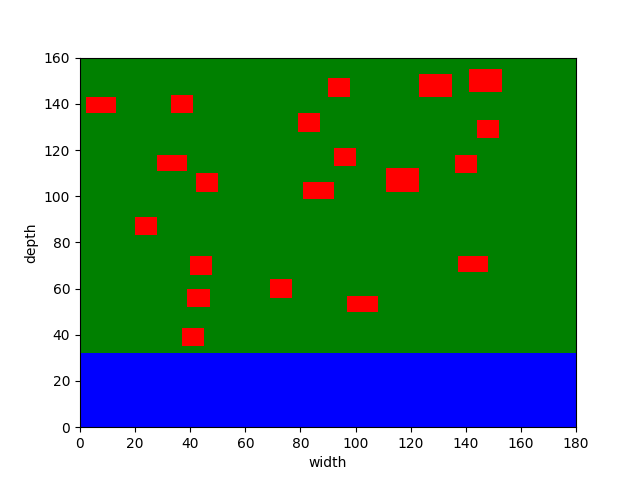
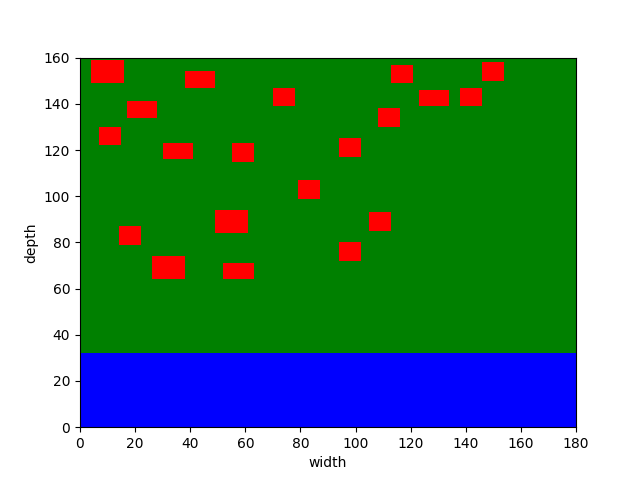
fixed free space problem

diff --git a/code/classes/graph.py b/code/classes/graph.py
@@ -1,8 +1,9 @@
 import csv
+import math
 import numpy as np
 import matplotlib.pyplot as plt
 import matplotlib.patches as patches
-from shapely.geometry import box, Point
+from shapely.geometry import box
 
 from code.classes.singlehouse import Singlehouse
 from code.classes.bungalow import Bungalow
@@ -78,17 +79,17 @@ class Graph():
         all_houses = []
 
         # Make the house objects and add to list
-        for singlehouse in range(int(total_singlehouses)):
-            singlehouse = Singlehouse()
-            all_houses.append(singlehouse)
+        for maison in range(int(total_maisons)):
+            maison = Maison()
+            all_houses.append(maison)
 
         for bungalow in range(int(total_bungalows)):
             bungalow = Bungalow()
             all_houses.append(bungalow)
 
-        for maison in range(int(total_maisons)):
-            maison = Maison()
-            all_houses.append(maison)
+        for singlehouse in range(int(total_singlehouses)):
+            singlehouse = Singlehouse()
+            all_houses.append(singlehouse)
 
         return all_houses
 
@@ -145,7 +146,6 @@ class Graph():
             The output list returns a house and its freespace
         """
         output = []
-
         # save all the corners of the house
         house_pointlist = [house.corner_lowerleft, house.return_upperleft(house), house.return_upperright(house), house.return_lowerright(house)]
 
@@ -155,18 +155,49 @@ class Graph():
                 neigh_pointlist = [neigh_house.corner_lowerleft, neigh_house.return_upperleft(neigh_house), neigh_house.return_upperright(neigh_house), neigh_house.return_lowerright(neigh_house)]
             
                 # compare the points of given house and its neighbours to find shortest distance
-                for housepoint in house_pointlist:
-                    for neighpoint in neigh_pointlist:
-                        distance = Point(housepoint[0],housepoint[1]).distance(Point(neighpoint[0],neighpoint[1]))
-                        if output == []:
-                            output.append(neigh_house)
-                            output.append(distance) 
-                        elif distance < output[1]:
-                            output = []
-                            output.append(neigh_house)
-                            output.append(distance)
-
+                distance = self.rect_distance(house_pointlist[0][0],house_pointlist[0][1], house_pointlist[2][0], house_pointlist[2][1], neigh_pointlist[0][0],neigh_pointlist[0][1], neigh_pointlist[2][0], neigh_pointlist[2][1])
+                if output == []:
+                    output.append(neigh_house)
+                    output.append(distance) 
+                elif distance < output[1]:
+                    output = []
+                    output.append(neigh_house)
+                    output.append(distance)
+                            
         return output
+
+
+    def distance_calculator(self, x1, y1, x2, y2):
+        """
+            Calculates the distance between points.
+        """
+        dist = math.sqrt((x2 - x1)**2 + (y2 - y1)**2)
+        return dist
+
+
+    def rect_distance(self,x1, y1, x1b, y1b, x2, y2, x2b, y2b):
+        left = x2b < x1
+        right = x1b < x2
+        bottom = y2b < y1
+        top = y1b < y2
+        if top and left:
+            return self.distance_calculator(x1, y1b, x2b, y2)
+        elif left and bottom:
+            return self.distance_calculator(x1, y1,x2b, y2b)
+        elif bottom and right:
+            return self.distance_calculator(x1b, y1, x2, y2b)
+        elif right and top:
+            return self.distance_calculator(x1b, y1b, x2, y2)
+        elif left:
+            return x1 - x2b
+        elif right:
+            return x2 - x1b
+        elif bottom:
+            return y1 - y2b
+        elif top:
+            return y2 - y1b
+        else:             # rectangles intersect
+            return 0
 
 
     def invalid(self, house, houses):
@@ -174,16 +205,18 @@ class Graph():
             Checks if the freespace between houses is the same or larger than the minimum freespace required.
             Returns True if the freespace is invalid. 
         """
-        nearest_neighbour = self.closest_house(house, houses)
+        house_pointlist = [house.corner_lowerleft, house.return_upperleft(house), house.return_upperright(house), house.return_lowerright(house)]
 
-        # Return houses with an invalid freespace distance
-        if isinstance(house, Maison) and nearest_neighbour[1] < house.freespace:
-            return True
-        elif isinstance(house, Bungalow) and nearest_neighbour[1] < house.freespace:
-            return True
-        elif isinstance(house, Singlehouse) and  nearest_neighbour[1] < house.freespace:
-            return True
-    
+        for neigh_house in houses:
+            if neigh_house.id is not house.id:
+                # save all the corners of a neighbouring house
+                neigh_pointlist = [neigh_house.corner_lowerleft, neigh_house.return_upperleft(neigh_house), neigh_house.return_upperright(neigh_house), neigh_house.return_lowerright(neigh_house)]
+                # compare the points of given house and its neighbours to find shortest distance
+                distance = self.rect_distance(house_pointlist[0][0],house_pointlist[0][1], house_pointlist[2][0], house_pointlist[2][1], neigh_pointlist[0][0],neigh_pointlist[0][1], neigh_pointlist[2][0], neigh_pointlist[2][1])
+                if distance > house.freespace and distance > neigh_house.freespace:
+                    continue
+                else:
+                    return True
         return False
 
 
@@ -205,7 +238,7 @@ class Graph():
         for house in houses:
             freespace = self.closest_house(house, houses)[1]
             extra_freespace = freespace - house.freespace
-            price_increase = extra_freespace * house.percentage + 1
+            price_increase = ((extra_freespace * house.percentage)/100) + 1
             house.price = round(house.price * price_increase)
 
 
@@ -219,34 +252,35 @@ class Graph():
             singlehouse_counter = 0
             bungalow_counter = 0
             maison_counter = 0
+
             for water in self.water:
                 structure = water[0]
                 corner_1 = water[1]
-                corner_2 = [water[1][0] + water[2][0], water[1][1]]
+                corner_2 = [water[1][0] + water[2][0],water[1][1]]
                 corner_3 = water[2]
                 corner_4 = [water[1][0], water[1][0] + water[2][1]]
                 watertype = water[3]
-                writer.writerow([structure, ', '.join(map(str, corner_1)), ', '.join(map(str, corner_2)), ', '.join(map(str, corner_3)), ', '.join(map(str, corner_4)), watertype])
+                writer.writerow([structure, ','.join(map(str, corner_1)), ','.join(map(str, corner_2)), ','.join(map(str, corner_3)), ','.join(map(str, corner_4)), watertype])
 
             for house in all_houses:
                 if isinstance(house, Singlehouse):
                     housetype = "EENGEZINSWONING"
                     singlehouse_counter += 1
                     structure = "singlehouse_" + str(singlehouse_counter)
-                    writer.writerow([structure, ', '.join(map(str, house.return_lowerright(house))), ', '.join(map(str, house.corner_lowerleft)), ', '.join(map(str,house.return_upperleft(house))), ', '.join(map(str, house.return_upperright(house))) , housetype])
+                    writer.writerow([structure, ','.join(map(str, house.return_lowerright(house))), ','.join(map(str, house.corner_lowerleft)), ','.join(map(str,house.return_upperleft(house))), ','.join(map(str, house.return_upperright(house))) , housetype])
                 elif isinstance(house, Bungalow):
                     housetype = "BUNGALOW"
                     bungalow_counter += 1
                     structure = "bungalow_" + str(bungalow_counter) 
-                    writer.writerow([structure, ', '.join(map(str, house.return_lowerright(house))), ', '.join(map(str, house.corner_lowerleft)), ', '.join(map(str,house.return_upperleft(house))), ', '.join(map(str, house.return_upperright(house))) , housetype])
+                    writer.writerow([structure, ','.join(map(str, house.return_lowerright(house))), ','.join(map(str, house.corner_lowerleft)), ','.join(map(str,house.return_upperleft(house))), ','.join(map(str, house.return_upperright(house))) , housetype])
                 elif isinstance(house, Maison):
                     housetype = "MAISON"
                     maison_counter += 1
                     structure = "maison_" + str(maison_counter)
-                    writer.writerow([structure, ', '.join(map(str, house.return_lowerright(house))), ', '.join(map(str, house.corner_lowerleft)), ', '.join(map(str,house.return_upperleft(house))), ', '.join(map(str, house.return_upperright(house))) , housetype])
+                    writer.writerow([structure, ','.join(map(str, house.return_lowerright(house))), ','.join(map(str, house.corner_lowerleft)), ','.join(map(str,house.return_upperleft(house))), ','.join(map(str, house.return_upperright(house))) , housetype])
 
             writer.writerow(["networth", self.get_networth(all_houses)])
-    
+
 
     def get_networth(self, all_houses):
         """

diff --git a/code/algorithms/random.py b/code/algorithms/random.py
@@ -52,6 +52,7 @@ class Random:
 
         # get final houseprice
         final_networth = self.area.get_networth(self.houses)
+        print(final_networth)
 
         self.area.load_houses(self.houses)
         self.area.write_output(self.houses)

diff --git a/code/classes/bungalow.py b/code/classes/bungalow.py
@@ -8,6 +8,6 @@ class Bungalow(House):
         self.id = id(self) 
         self.freespace = 3
         self.price = 399000
-        self.percentage = 0.04
+        self.percentage = 4
         self.corner_lowerleft = [0,0]   
     

diff --git a/code/classes/maison.py b/code/classes/maison.py
@@ -9,5 +9,5 @@ class Maison(House):
         self.id = id(self)
         self.freespace = 6
         self.price = 610000
-        self.percentage = 0.06
+        self.percentage = 6
         self.corner_lowerleft = [0,0]

diff --git a/code/classes/singlehouse.py b/code/classes/singlehouse.py
@@ -8,5 +8,5 @@ class Singlehouse(House):
       self.id = id(self)
       self.freespace = 2
       self.price = 285000
-      self.percentage = 0.03
+      self.percentage = 3
       self.corner_lowerleft = [0,0]
